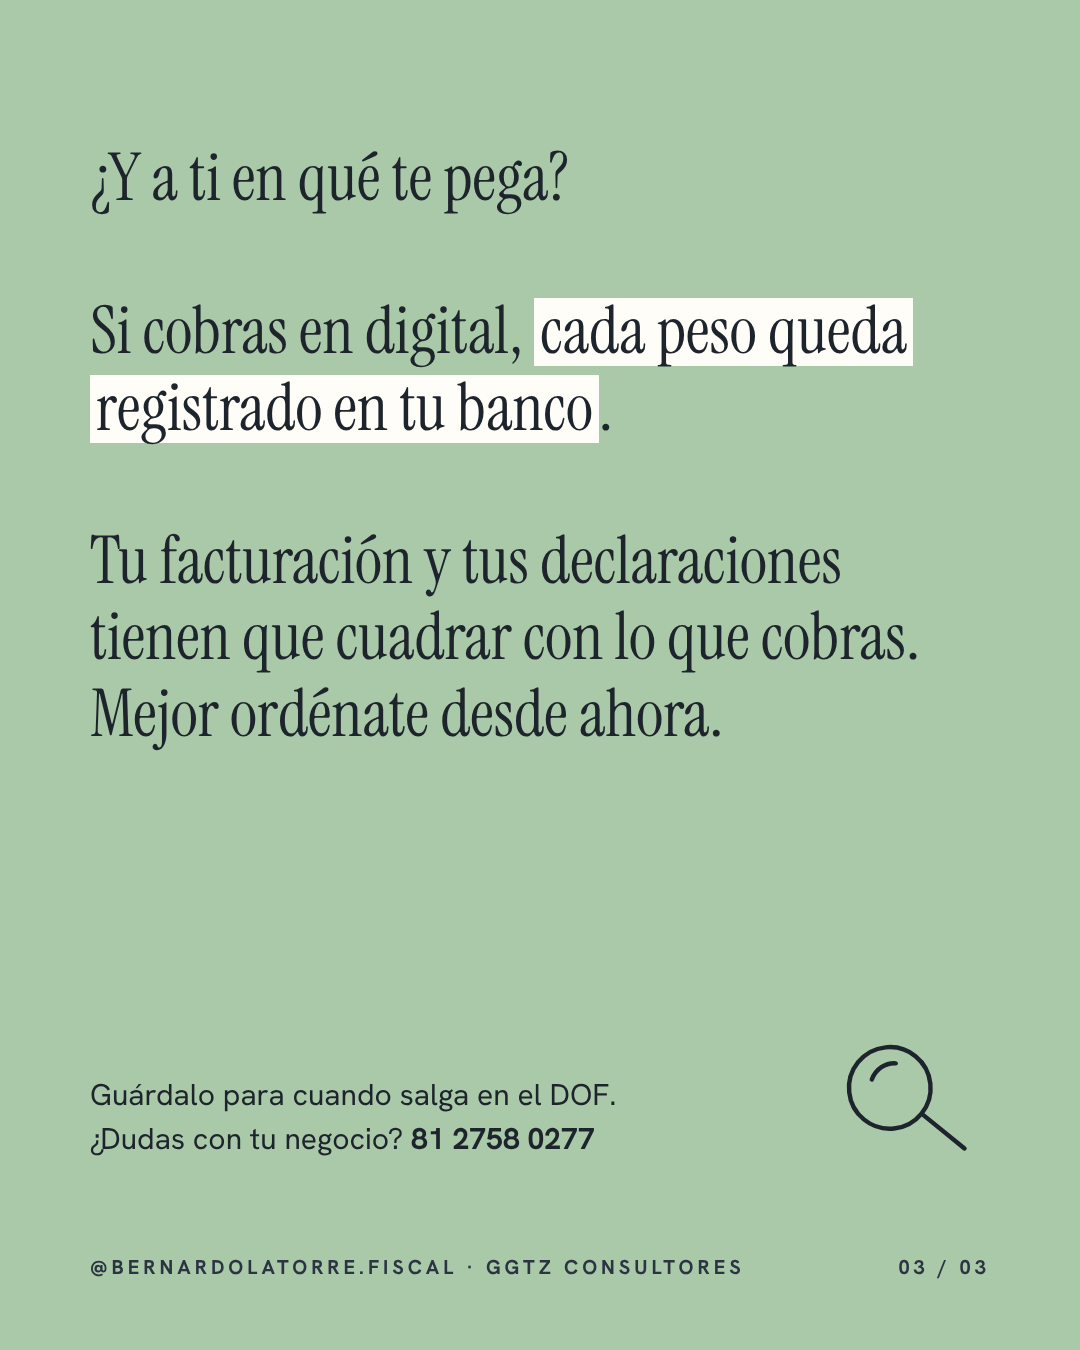
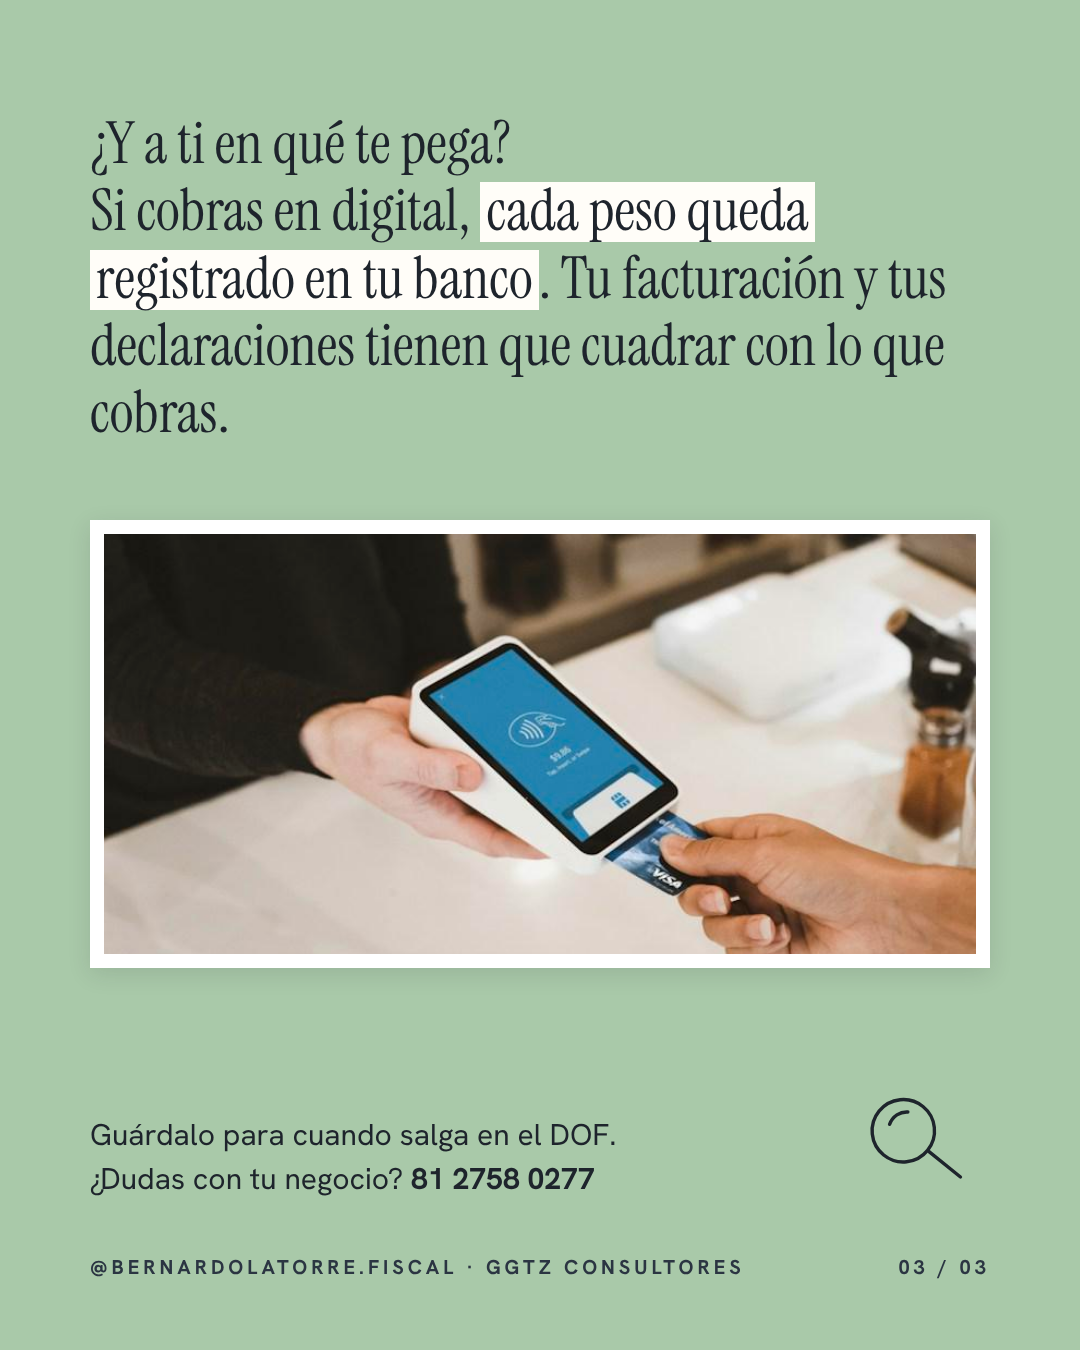
Miércoles en 3 láminas: foto en la lámina 3
Claude-Session: https://claude.ai/code/session_01J2dboEZNzBYhxcXmwSfC74

diff --git a/recursos/plantillas/Ecd-03.dc.html b/recursos/plantillas/Ecd-03.dc.html
@@ -13,16 +13,18 @@ body{margin:0}
 </helmet>
 <div style="width:1080px;height:1350px;position:relative;overflow:hidden;background:#A9C9A9;font-family:'Hanken Grotesk',sans-serif;color:#1E242C">
 
-<div class="serif" style="position:absolute;left:90px;right:90px;top:140px;font-size:66px;line-height:1.16">
-¿Y a ti en qué te pega?<br><br>
-Si cobras en digital, <span class="hlw">cada peso queda registrado en tu banco</span>.<br><br>
-Tu facturación y tus declaraciones tienen que cuadrar con lo que cobras. Mejor ordénate desde ahora.
+<div class="serif" style="position:absolute;left:90px;right:90px;top:110px;font-size:58px;line-height:1.16">
+¿Y a ti en qué te pega?<br>
+Si cobras en digital, <span class="hlw">cada peso queda registrado en tu banco</span>. Tu facturación y tus declaraciones tienen que cuadrar con lo que cobras.
 </div>
-<div style="position:absolute;left:90px;right:330px;bottom:190px;font-size:30px;line-height:1.45">
+<div style="position:absolute;left:90px;right:90px;top:520px;padding:14px;background:#fff;box-shadow:0 6px 22px rgba(30,36,44,0.12)">
+<img src="/_blob/91a759277f2d4e3b9a03c351430610c6" alt="Cliente pagando con tarjeta en una terminal digital en un café" style="display:block;width:100%;height:420px;object-fit:cover;object-position:50% 38%">
+</div>
+<div style="position:absolute;left:90px;right:330px;bottom:150px;font-size:30px;line-height:1.45">
 Guárdalo para cuando salga en el DOF.<br>
 ¿Dudas con tu negocio? <b>81 2758 0277</b>
 </div>
-<div style="position:absolute;right:90px;bottom:160px;transform:rotate(-6deg)"><svg aria-hidden="true" width="170" height="170" viewBox="0 0 100 100" fill="none" stroke="#1E242C" stroke-width="2.6" stroke-linecap="round" stroke-linejoin="round"><circle cx="42" cy="42" r="24"/><path d="M60 60l22 22"/><path d="M32 36c3-6 9-9 15-8"/></svg></div>
+<div style="position:absolute;right:100px;bottom:140px;transform:rotate(-6deg)"><svg aria-hidden="true" width="130" height="130" viewBox="0 0 100 100" fill="none" stroke="#1E242C" stroke-width="2.6" stroke-linecap="round" stroke-linejoin="round"><circle cx="42" cy="42" r="24"/><path d="M60 60l22 22"/><path d="M32 36c3-6 9-9 15-8"/></svg></div>
 <div style="position:absolute;left:90px;right:90px;bottom:70px;display:flex;justify-content:space-between;font-size:20px;letter-spacing:0.2em;font-weight:700;color:#2B3542"><span>@BERNARDOLATORRE.FISCAL · GGTZ CONSULTORES</span><span>03 / 03</span></div>
 
 </div>

diff --git a/recursos/plantillas/_gen_economia_digital.py b/recursos/plantillas/_gen_economia_digital.py
@@ -71,18 +71,21 @@ Va a ser gradual, no de golpe.
 {pie(2)}
 """
 
-# ---------- 03 Remate: salvia, sin foto ----------
+# ---------- 03 Remate: salvia + UNA foto recortada (hoja/recorte, sin giro) ----------
+FOTO = "/_blob/91a759277f2d4e3b9a03c351430610c6"  # fotos/pago-tarjeta-terminal.jpg
 p3 = f"""
-<div class="serif" style="position:absolute;left:90px;right:90px;top:140px;font-size:66px;line-height:1.16">
-¿Y a ti en qué te pega?<br><br>
-Si cobras en digital, <span class="hlw">cada peso queda registrado en tu banco</span>.<br><br>
-Tu facturación y tus declaraciones tienen que cuadrar con lo que cobras. Mejor ordénate desde ahora.
+<div class="serif" style="position:absolute;left:90px;right:90px;top:110px;font-size:58px;line-height:1.16">
+¿Y a ti en qué te pega?<br>
+Si cobras en digital, <span class="hlw">cada peso queda registrado en tu banco</span>. Tu facturación y tus declaraciones tienen que cuadrar con lo que cobras.
 </div>
-<div style="position:absolute;left:90px;right:330px;bottom:190px;font-size:30px;line-height:1.45">
+<div style="position:absolute;left:90px;right:90px;top:520px;padding:14px;background:#fff;box-shadow:0 6px 22px rgba(30,36,44,0.12)">
+<img src="{FOTO}" alt="Cliente pagando con tarjeta en una terminal digital en un café" style="display:block;width:100%;height:420px;object-fit:cover;object-position:50% 38%">
+</div>
+<div style="position:absolute;left:90px;right:330px;bottom:150px;font-size:30px;line-height:1.45">
 Guárdalo para cuando salga en el DOF.<br>
 ¿Dudas con tu negocio? <b>81 2758 0277</b>
 </div>
-<div style="position:absolute;right:90px;bottom:160px;transform:rotate(-6deg)">{LUPA}</div>
+<div style="position:absolute;right:100px;bottom:140px;transform:rotate(-6deg)">{LUPA.replace('width="170" height="170"', 'width="130" height="130"')}</div>
 {pie(3, "#2B3542")}
 """
 

diff --git a/recursos/historial.md b/recursos/historial.md
@@ -7,7 +7,7 @@ La tarea programada lee este archivo antes de crear un carrusel (para no repetir
 | 2026-10-09 | Deducciones personales | Ilustración tipo cooltura (v1) | — | — |
 | 2026-10-10 | Presentación formal: Bernardo Latorre (perfil, trayectoria, GGTZ) | Foto de Bernardo a todo lo ancho (oficina, camisa azul) + nombre grande abajo sobre degradado pizarra (motivo: retrato) | Pantalla dividida con foto; línea de tiempo; "8" gigante; chips de servicios; post-its sobre terracota | berny: oficina-camisa-azul-laptop, icpnl-muro-logo, icpnl-caso-2017-tercer-lugar, campana-tocando, deloitte-sillon-verde-1, deloitte-equipo-evento, foro-economico-fiscal-pose, icpnl-con-colega, icpnl-termo-sesion; cerro-de-la-silla-atardecer |
 | 2026-10-13 | Cierre fiscal 2026 | Foto a todo lo ancho (pareja con carta) + hoja rotada + sticker DIC 31 | Línea de tiempo + celular con captura del SAT; cuadrícula 2×2 + navegador | pareja-preocupada-carta, calculadora-escritorio, persona-calculadora-cuaderno, pilas-de-documentos, navidad-calle-mexicana-estrellas, monterrey-torres-sierra |
-| 2026-10-14 | Miércoles en 3 láminas: Ley de Economía Digital (aprobada por Diputados el 6 oct, pasa al Senado) | Estilo Chismesito: fondo terracota liso, pregunta grande arriba + texto corrido con marcador + garabato de celular (motivo: texto/celular, sin foto) | Formato miércoles v2: láminas de color liso (terracota, marfil, salvia), recorte de hoja "en corto", garabatos de línea | — |
+| 2026-10-14 | Miércoles en 3 láminas: Ley de Economía Digital (aprobada por Diputados el 6 oct, pasa al Senado) | Estilo Chismesito: fondo terracota liso, pregunta grande arriba + texto corrido con marcador + garabato de celular (motivo: texto/celular, sin foto) | Formato miércoles v2: láminas de color liso (terracota, marfil, salvia), recorte de hoja "en corto", garabatos de línea, foto en marco blanco | pago-tarjeta-terminal |
 | 2026-10-15 | RESICO | Fondo lino claro: billetes en polaroid grande arriba + sticker 1%–2.5% + título grande abajo sin tarjeta (motivo: dinero) | Tabla oscura con barras; fórmula en bloques; tres polaroids; ejemplo numérico | billetes-pesos-mexicanos, terminal-pago-ticket, comerciante-celular, mujer-laptop-sonriendo, mano-firmando-documento, persona-calculadora-cuaderno, cerro-de-la-silla-atardecer |
 | 2026-10-20 | 5 cosas que, como contador, nunca haría con mis impuestos (idea de Berny, ref. @taxfi_) | Fondo azul polvo liso con puntos + "5" gigante fantasma + hoja "Mi lista de NO" con tachas + sticker circular terracota (sin foto) | Índice numerado oscuro; ticket con sello FALSA; mito tachado vs realidad; chat de WhatsApp; dos cuentas lado a lado; recibo de ahorro | bolsas-de-compras, llaves-casa, taqueria-esquina, pago-tarjeta-terminal, monterrey-sierra-madre |
 | 2026-10-22 | Dinero que recibes y no paga ISR, parte 1 (idea de Berny, ref. @taxfi_) | Pantalla dividida: mitad sarga con título, mitad foto B/N (mujer pensativa) + notificación bancaria encima | Diagrama de flujo gravado/exento/no ingreso; árbol familiar; barra tope vs excedente; post-its | mujer-pensativa-bn, apreton-de-manos, familia-al-aire-libre, monedas-pila, llaves-casa, reunion-oficina, monterrey-torres-sierra |
